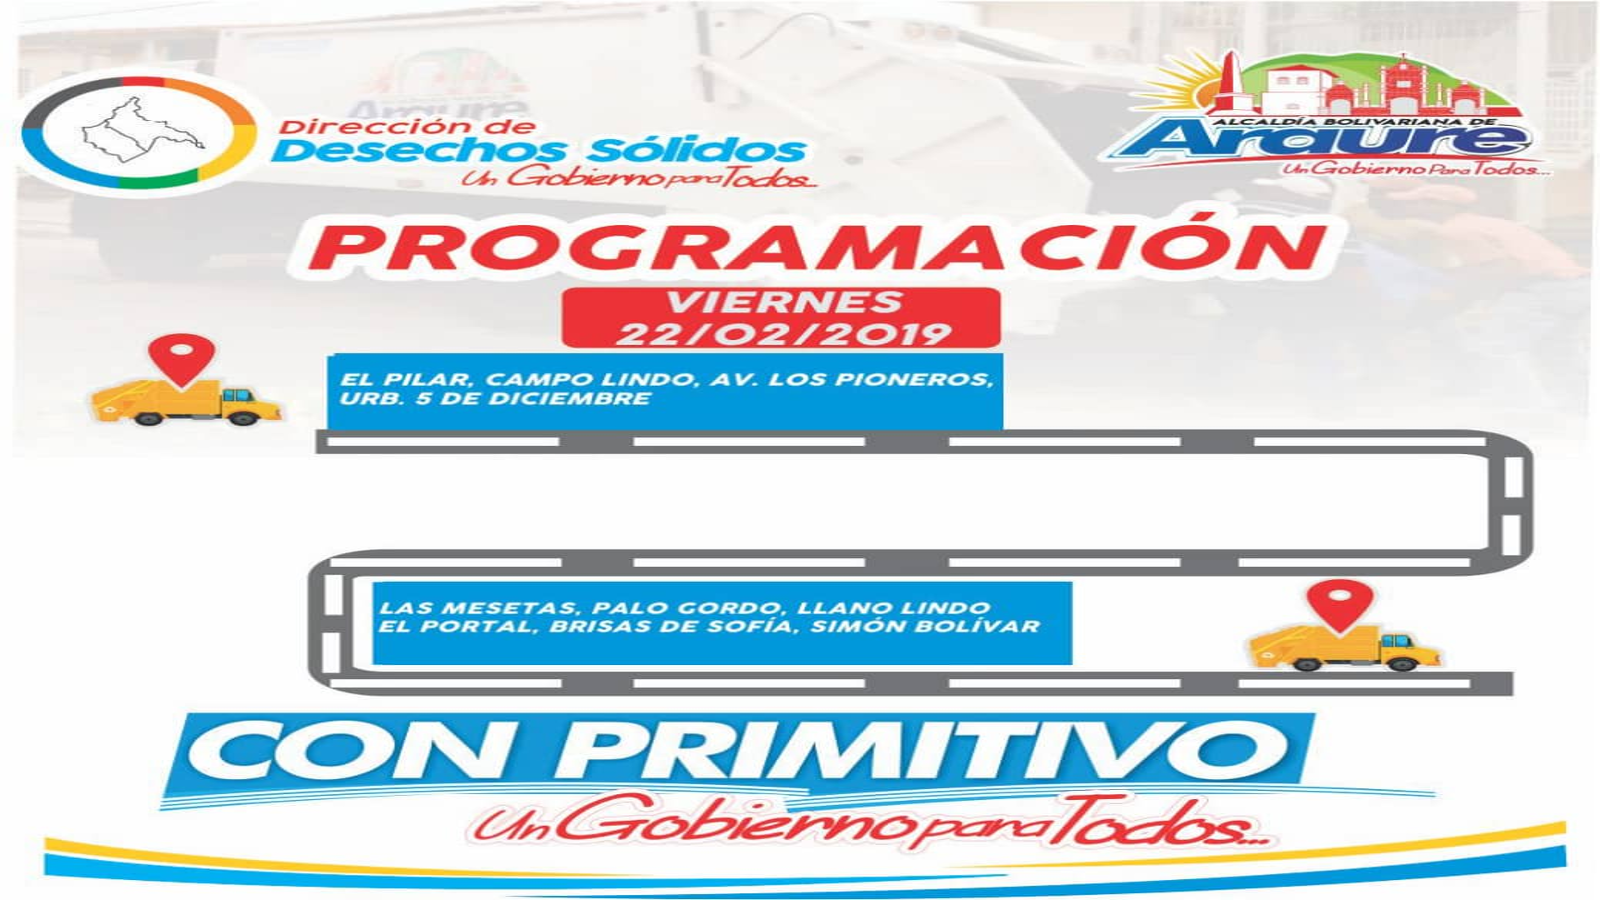
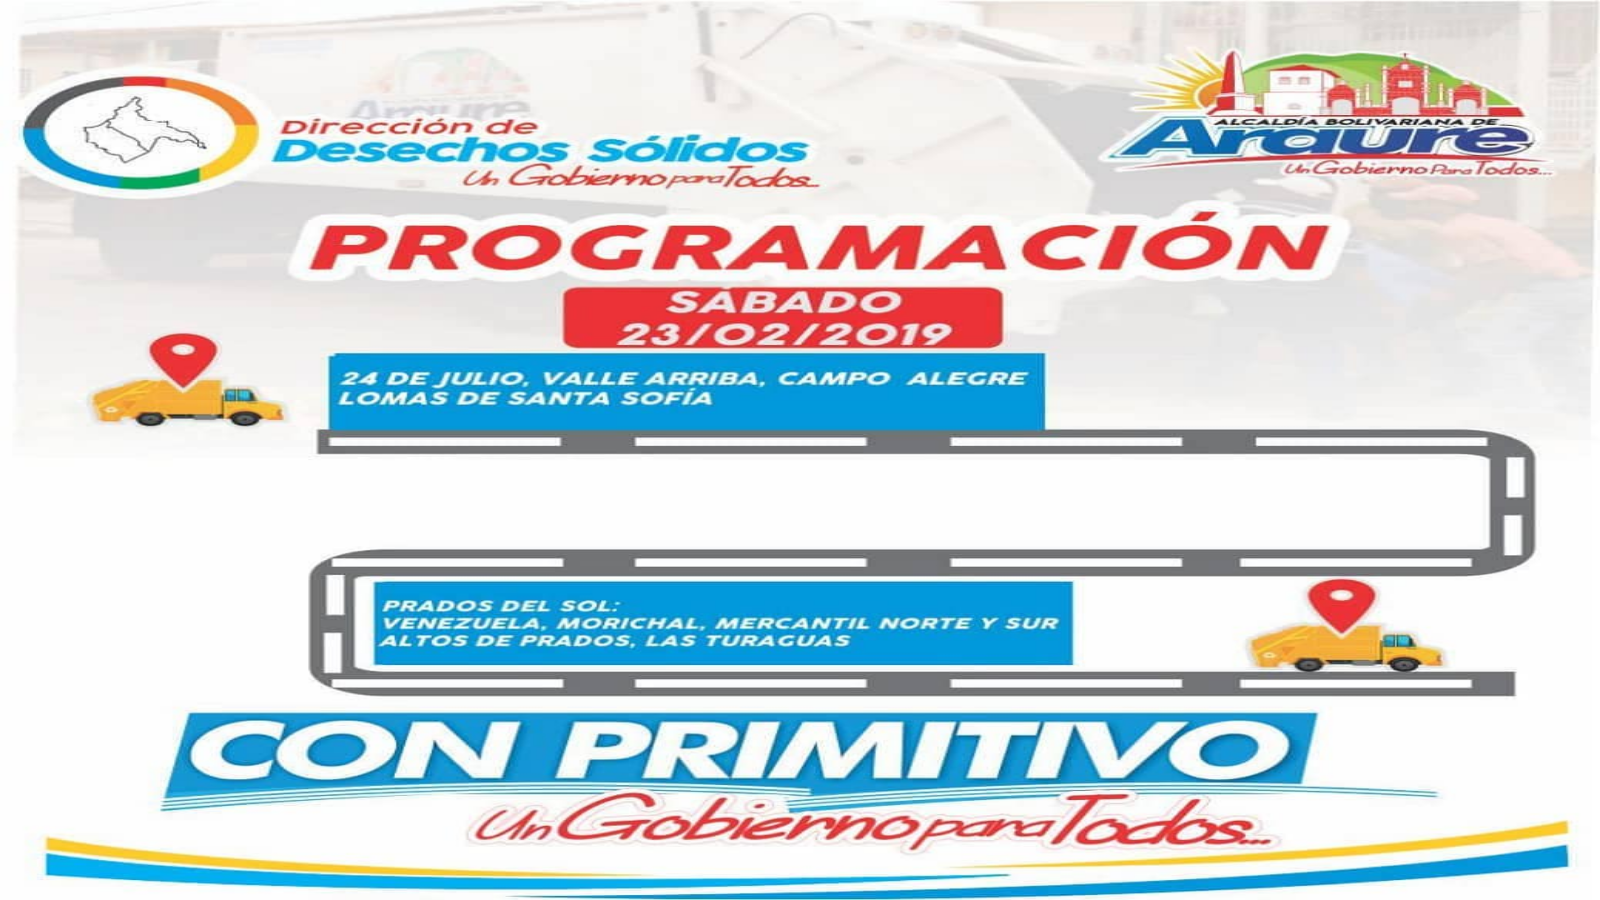
aviso aseo

diff --git a/html/index.html b/html/index.html
@@ -245,13 +245,13 @@
                                         <h2>Lorem ipsum dolor sit.</h2>-->
                                     </div>
                                 </li>
-                              <!--  <li> Slide 3 -->
-                                  <!-- <img src="./img/Avisos_importantes/2019/jornada.png">                
+                               <li> <!--Slide 3 -->
+                                  <img src="./img/Avisos_importantes/2019/23.png">                
                                      <div class="meta">-->
                                        <!-- <h1>Lorem ipsum dolor sit amet, consectetur.</h1>
-                                        <h2>Lorem ipsum dolor sit.</h2>
+                                        <h2>Lorem ipsum dolor sit.</h2>-->
                                     </div>
-                                </li> -->
+                                </li> 
                                <li> <!-- Slide 4 -->
                                  <img src="./img/Avisos_importantes/2019/leales.png">
                                     <div class="meta">
